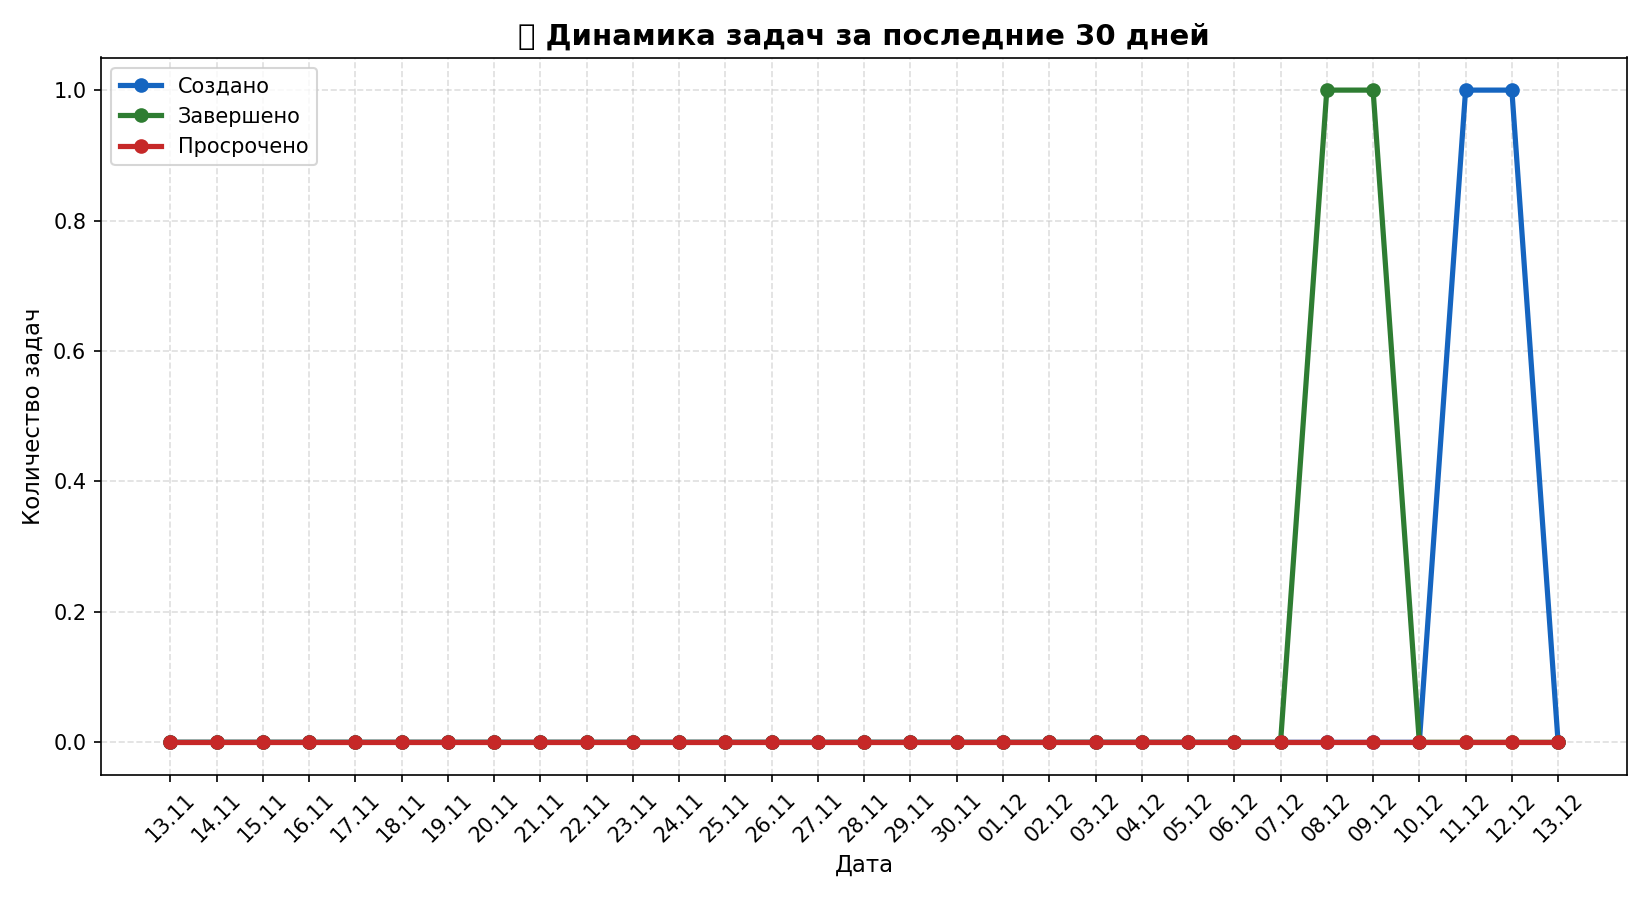
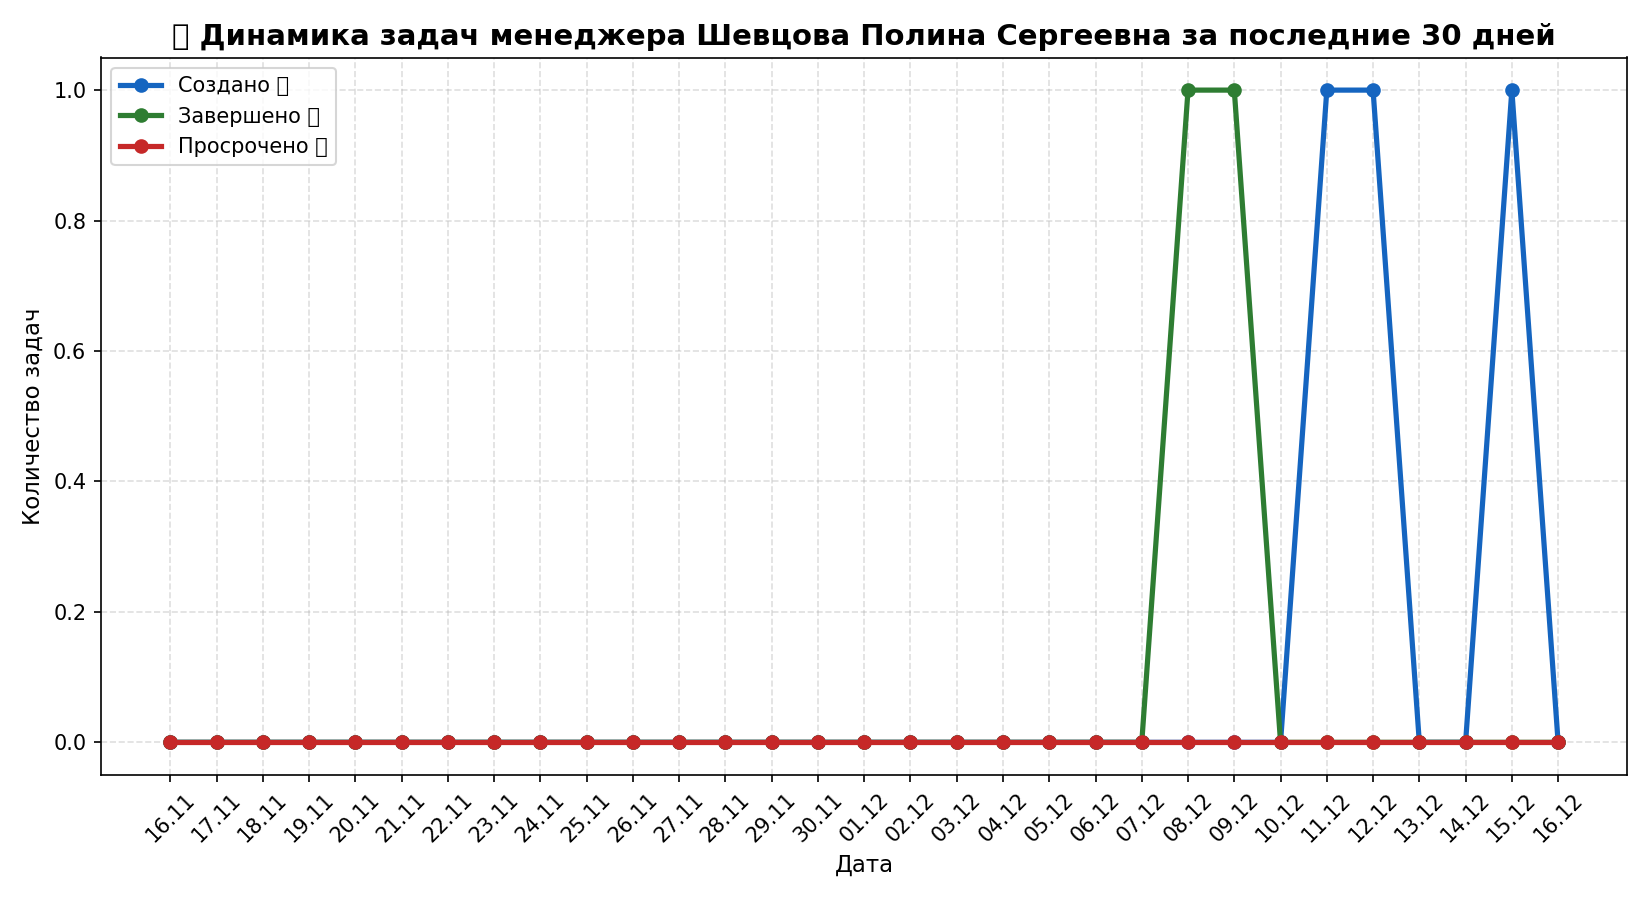
Аналитика и отчеты: Шаг 3.3 - Улучшение диаграммы по таймлайну задач на месяц + Добавление ИИ

diff --git a/handlers/reports/manager_tasks_timeline.py b/handlers/reports/manager_tasks_timeline.py
@@ -1,7 +1,9 @@
 # handlers/reports/manager_tasks_timeline.py
+
 import os
 from datetime import date, timedelta
 
+import torch
 import matplotlib.pyplot as plt
 from aiogram import types, Dispatcher
 from sqlalchemy import select
@@ -9,14 +11,78 @@ from sqlalchemy import select
 from database.db import async_session_maker
 from database.models import User, Task, TaskStatus
 
+from handlers.reports.manager_reports import tokenizer, model
 
+# ============================================================
+# 🔹 Функция генерации ИИ-рекомендаций
+# ============================================================
+def generate_ai_recommendations(stats: dict) -> str:
+    """
+    Генерация профессиональных рекомендаций для менеджера
+    на основе статистики задач
+    """
+    prompt = f"""
+    Ты — бизнес-аналитик CRM-системы. Используй только данные команды менеджера.
+    Составь 3–4 лаконичные и профессиональные рекомендации для менеджера на основе этих данных.
+    Не придумывай компании, проценты или случайные коэффициенты. 
+    Выдавай текст связным абзацем без списков и заголовков.
+    
+    Пример правильного ответа:
+    Контролируй просроченные задачи и распределяй их между сотрудниками. 
+    Еженедельно анализируй задачи в работе и помогай сотрудникам с приоритетными задачами. 
+    Равномерно распределяй новые задачи, чтобы избежать перегрузки. 
+    Поощряй сотрудников за своевременное выполнение задач.
+    
+    Данные команды:
+    Создано: {stats['created']}, Завершено: {stats['done']}, Просрочено: {stats['overdue']}, Всего задач: {stats['total']}
+    """
+
+    try:
+        inputs = tokenizer(
+            prompt,
+            return_tensors="pt",
+            truncation=True,
+            max_length=512
+        )
+
+        with torch.no_grad():
+            output = model.generate(
+                **inputs,
+                max_new_tokens=150,
+                do_sample=True,
+                temperature=0.3,
+                top_p=0.85,
+                repetition_penalty=1.1,
+                pad_token_id=tokenizer.eos_token_id
+            )
+
+        text = tokenizer.decode(output[0], skip_special_tokens=True)
+        text = text.replace(prompt, "").strip()
+
+        # Обрезаем на законченные предложения
+        sentences = [s.strip() for s in text.split(".") if len(s.strip()) > 20]
+        text = ". ".join(sentences[:4])
+        if text:
+            text += "."
+
+        if not text:
+            return "Рекомендуется равномерно распределять задачи, контролировать сроки и поддерживать стабильную загрузку команды."
+
+        return text.strip()
+
+    except Exception as e:
+        print(f"⚠ Ошибка ИИ-аналитики: {e}")
+        return "Рекомендуется контролировать задачи и оптимизировать распределение нагрузки между сотрудниками."
+
+
+# ============================================================
+# 🔹 Callback: Динамика задач менеджера
+# ============================================================
 async def report_manager_timeline_cb_handler(query: types.CallbackQuery):
-    """📅 Динамика задач (менеджер)"""
     print(f"📌 Callback report_manager_timeline_cb_handler вызван для Telegram ID: {query.from_user.id}")
     await query.answer("⏳ Формирую динамику задач...")
 
     async with async_session_maker() as session:
-        # --- Получаем менеджера ---
         result = await session.execute(
             select(User).where(User.telegram_id == str(query.from_user.id))
         )
@@ -28,17 +94,15 @@ async def report_manager_timeline_cb_handler(query: types.CallbackQuery):
 
         print(f"✅ Менеджер: {manager.full_name}")
 
-        # --- Период отчёта ---
         days = 30
         today = date.today()
         start_date = today - timedelta(days=days)
 
-        # --- Получаем все задачи ---
         result_tasks = await session.execute(select(Task))
         tasks = result_tasks.scalars().all()
         print(f"ℹ Всего задач в БД: {len(tasks)}")
 
-        # --- Инициализация данных по дням ---
+        # Инициализация по дням
         dates = [start_date + timedelta(days=i) for i in range(days + 1)]
         created = {d: 0 for d in dates}
         done = {d: 0 for d in dates}
@@ -48,7 +112,6 @@ async def report_manager_timeline_cb_handler(query: types.CallbackQuery):
             if not task.id_employee:
                 continue
 
-            # --- Получаем исполнителя ---
             result_emp = await session.execute(
                 select(User).where(User.id_user == task.id_employee)
             )
@@ -56,20 +119,16 @@ async def report_manager_timeline_cb_handler(query: types.CallbackQuery):
             if not employee:
                 continue
 
-            # --- Только свои и подчинённые ---
             if employee.id_user != manager.id_user and employee.manager_id != manager.id_user:
                 continue
 
-            # --- Создание ---
             if task.deadline and start_date <= task.deadline <= today:
                 created[task.deadline] += 1
 
-            # --- Завершение ---
             if task.status == TaskStatus.done and task.date_completed:
                 if start_date <= task.date_completed <= today:
                     done[task.date_completed] += 1
 
-            # --- Просрочка ---
             if (
                 task.deadline
                 and task.deadline < today
@@ -82,38 +141,46 @@ async def report_manager_timeline_cb_handler(query: types.CallbackQuery):
             await query.message.answer("ℹ Нет данных для отчёта за выбранный период.")
             return
 
-        # --- График ---
+        # Статистика для подписи и ИИ
+        stats = {
+            "created": sum(created.values()),
+            "done": sum(done.values()),
+            "overdue": sum(overdue.values()),
+            "total": sum(created.values()) + sum(done.values()) + sum(overdue.values())
+        }
+
+        # Построение графика
         fig, ax = plt.subplots(figsize=(11, 6))
 
         x_labels = [d.strftime("%d.%m") for d in dates]
 
         ax.plot(
             x_labels,
-            created.values(),
-            label="Создано",
+            list(created.values()),
+            label="Создано 🟦",
             color="#1565C0",
             linewidth=2.5,
             marker="o"
         )
         ax.plot(
             x_labels,
-            done.values(),
-            label="Завершено",
+            list(done.values()),
+            label="Завершено 🟩",
             color="#2E7D32",
             linewidth=2.5,
             marker="o"
         )
         ax.plot(
             x_labels,
-            overdue.values(),
-            label="Просрочено",
+            list(overdue.values()),
+            label="Просрочено 🟥",
             color="#C62828",
             linewidth=2.5,
             marker="o"
         )
 
         ax.set_title(
-            f"📅 Динамика задач за последние {days} дней",
+            f"📅 Динамика задач менеджера {manager.full_name} за последние {days} дней",
             fontsize=14,
             fontweight="bold"
         )
@@ -125,20 +192,37 @@ async def report_manager_timeline_cb_handler(query: types.CallbackQuery):
         plt.xticks(rotation=45)
         plt.tight_layout()
 
-        # --- Сохранение ---
+        # Сохраняем график
         os.makedirs("reports/images", exist_ok=True)
         filename = "reports/images/manager_tasks_timeline.png"
         plt.savefig(filename, dpi=150)
         plt.close()
-
         print(f"✅ Диаграмма сохранена: {filename}")
 
-        await query.message.answer_photo(
-            types.InputFile(filename),
-            caption="📅 Динамика задач (последние 30 дней)"
+        # Генерация ИИ-рекомендаций
+        ai_text = generate_ai_recommendations(stats)
+
+        # Подпись для отправки
+        caption = (
+            f"Динамика задач менеджера {manager.full_name} за последние {days} дней\n\n"
+            f"Статистика команды:\n"
+            f"• Создано: {stats['created']} ({round(stats['created']/stats['total']*100,1) if stats['total'] else 0}%)\n"
+            f"• Завершено: {stats['done']} ({round(stats['done']/stats['total']*100,1) if stats['total'] else 0}%)\n"
+            f"• Просрочено: {stats['overdue']} ({round(stats['overdue']/stats['total']*100,1) if stats['total'] else 0}%)\n"
+            f"• Всего задач: {stats['total']}\n\n"
+            f"🤖 Рекомендации ИИ:\n{ai_text}"
         )
 
+        # Отправка
+        await query.message.answer_photo(
+            types.InputFile(filename),
+            caption=caption
+        )
 
+        print(f"🎯 Диаграмма с ИИ-рекомендациями отправлена менеджеру: {manager.full_name}")
+
+
+# 🔌 Регистрация
 def register_manager_timeline_report(dp: Dispatcher):
     dp.register_callback_query_handler(
         report_manager_timeline_cb_handler,
